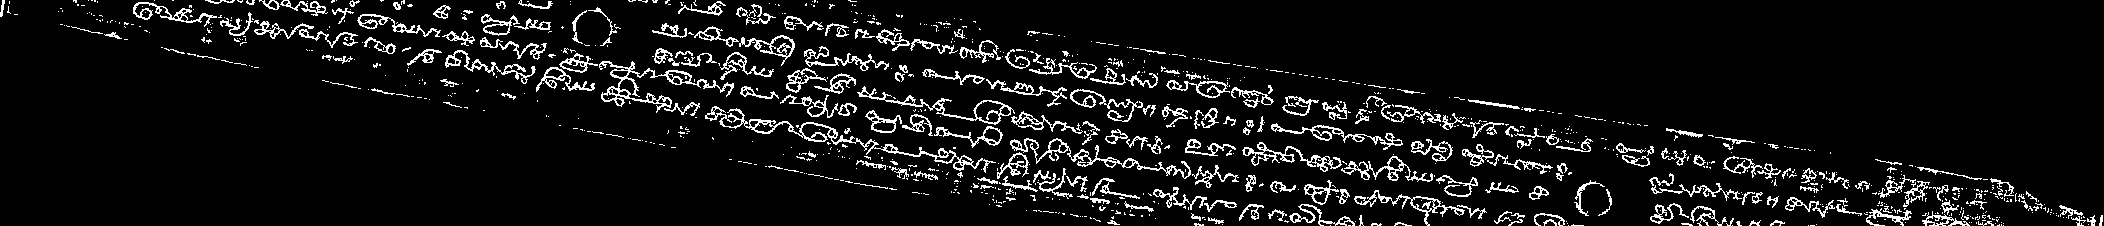
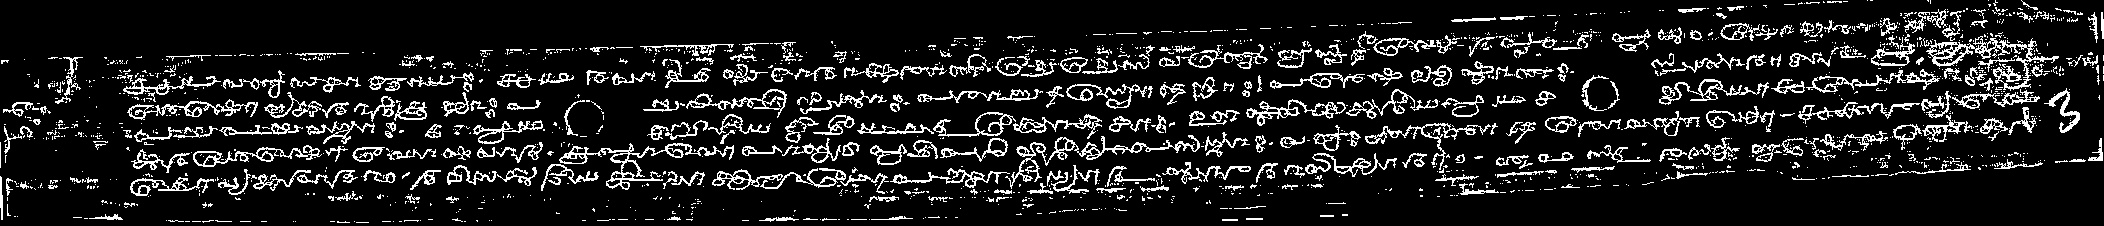
Yay! Getting close to slew correction! Finally

diff --git a/src/preproc_for_skew_correction_4.py b/src/preproc_for_skew_correction_4.py
@@ -66,9 +66,12 @@ print 'Done'
 cv2.imshow('dev', dev_contours)
 sobely = cv2.Sobel(dev_contours,cv2.CV_64F,0,1,ksize=5)
 cv2.imshow('sobel', sobely)
+abs_sobel64f = np.absolute(sobely)
+sobel_8u = np.uint8(abs_sobel64f)
 
 largest_contour = np.zeros(img.shape[:2],np.uint8)
-contours, hierarchy = cv2.findContours(dev_contours,cv2.RETR_TREE,cv2.CHAIN_APPROX_SIMPLE)
+#contours, hierarchy = cv2.findContours(dev_contours,cv2.RETR_TREE,cv2.CHAIN_APPROX_SIMPLE)
+contours, hierarchy = cv2.findContours(sobel_8u,cv2.RETR_TREE,cv2.CHAIN_APPROX_SIMPLE)
 areas = [cv2.contourArea(c) for c in contours]
 max_index = np.argmax(areas)
 #cnt=contours[max_index]
